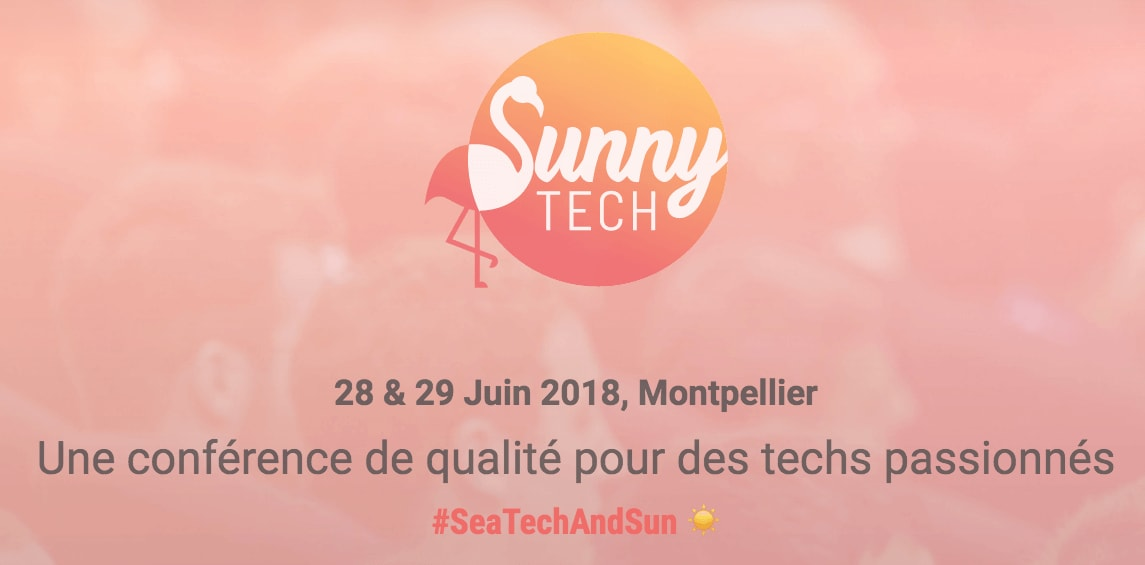
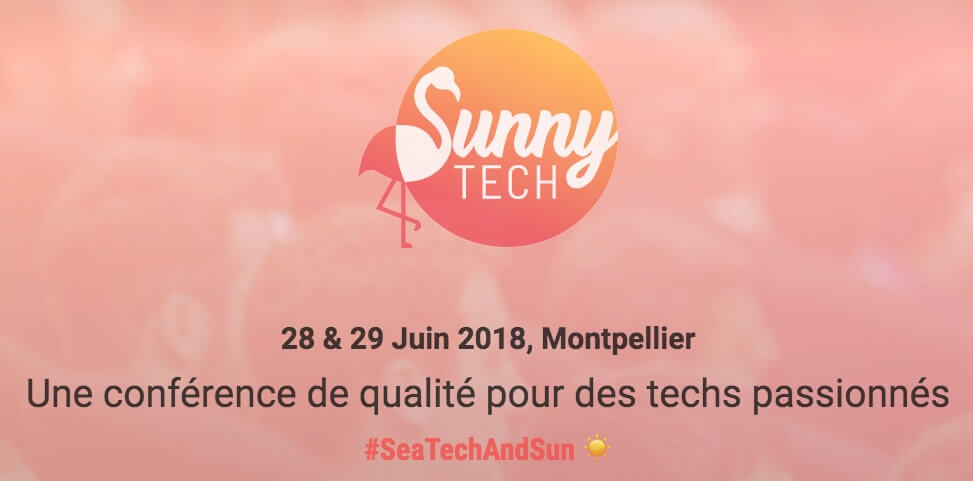
Update sharing image

diff --git a/index.html b/index.html
@@ -49,7 +49,7 @@
   <!-- G+ sharing meta data -->
   <meta itemprop="name" content="{$ title $}">
   <meta itemprop="description" content="{$ description $}">
-  <meta itemprop="image" content="/images/social-share.jpg">
+  <meta itemprop="image" content="{$ url $}images/sharing_social.jpg">
   <meta itemprop="startDate" content="{$ startDate $}">
   <meta itemprop="endDate" content="{$ endDate $}">
 
@@ -60,17 +60,16 @@
   <meta property="og:url" content="{$ url $}">
   <meta property="og:description" content="{$ description $}">
   <meta property="og:type" content="Event">
-  <meta property="og:image" content="/images/sharing_social.jpg">
-  <meta property="og:image:type" content="image/jpeg" />
-  <meta property="og:image:width" content="1145" />
-  <meta property="og:image:height" content="565" />
+  <meta property="og:image" content="{$ url $}images/sharing_social.jpg">
+  <meta property="og:image:width" content="973" />
+  <meta property="og:image:height" content="481" />
 
   <!-- Twitter meta data -->
   <meta name="twitter:card" content="summary_large_image">
   <meta name="twitter:creator" content="@{$ organizer.twitter $}">
   <meta name="twitter:title" content="{$ title $}">
   <meta name="twitter:description" content="{$ description $}">
-  <meta name="twitter:image" content="/images/sharing_social.jpg">
+  <meta name="twitter:image" content="{$ url $}images/sharing_social.jpg">
 
   <link rel="dns-prefetch" href="https://www.google-analytics.com">
   <link rel="dns-prefetch" href="https://apis.google.com">
